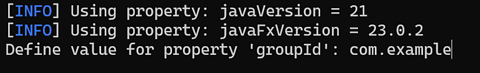
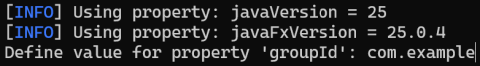
Update VSCode guide for Java 25 and Windows on Arm

diff --git a/learn/javafx/vscode/readme.md b/learn/javafx/vscode/readme.md
@@ -9,9 +9,9 @@ This document contains the following content:
 
 # Setting up the VSCode environment for JavaFX
 
-This guide will install the following software:
+In this guide, you will install the following software:
 
-- OpenJDK 21
+- OpenJDK 25
 - Maven 3
 - Visual Studio Code and the necessary extensions
 - Scene Builder
@@ -20,11 +20,16 @@ Installation methods differ depending on the operating system.
 
 ## Setting up VSCode for JavaFX on Windows
 
+You may be using Windows on Arm. 
+Although Java has an Arm version, the JavaFX libraries fetched via pom.xml do not support the Arm version of Java.
+Therefore, please install the x64 version of Java.
+In addition, some parts differ from Windows on x64, so please read the notes for each section.
+
 ### Step 1. Check your Java version
 
 First, check if Java is installed on your system.
 Search your Windows OS for the **Terminal** app.
-You can do this by clicking the Start menu and typing “Terminal” in the search bar.
+You can do this by clicking the Start menu and typing "Terminal" in the search bar.
 
 Open the "Terminal" (Windows PowerShell) and enter the following command:
 ```
@@ -34,72 +39,49 @@ java -version
 
 If an error is displayed, Java is not installed on your PC.
 Otherwise, the installed version of Java will be displayed.
-In the example in the photo above, openjdk version "21.0.6" is shown.
+In the example in the screenshot above, openjdk version "25.0.4" is shown.
 
-If the version is less than 21, please uninstall Java.
-The minor version numbers (the x.x part of 21.x.x) can be anything.
-If Java 21 or higher is already installed, no installation is necessary; proceed to **Step 4**.
+If the major version is less than 25, please uninstall Java.
+The minor version number (the x.x part of 25.x.x) can be anything.
+If Java 25 or higher is already installed, no installation is necessary; proceed to **Step 3**.
 
-### Step 2. Install Scoop
+### Step 2. Install OpenJDK
 
-If you are unfamiliar with setting up development environments, we recommend using **Scoop**. [Scoop](https://scoop.sh) is a package manager for Windows that automatically installs the necessary software for development and configures it for use.
+The first thing we need to install for Java development is OpenJDK. JDK stands for Java Development Kit.
 
-To install Scoop, copy the two lines below, paste them into Terminal (PowerShell), and press the Enter key to execute them.
+There are many distributions of OpenJDK. Any distribution will work, but this guide uses Eclipse Temurin.
 
-```
-Set-ExecutionPolicy -ExecutionPolicy RemoteSigned -Scope CurrentUser
-Invoke-RestMethod -Uri https://get.scoop.sh | Invoke-Expression
-```
+Please download Temurin from https://adoptium.net/temurin and install it.
 
-![Install Scoop](scoop.png)
+In the Custom Setup dialog during installation, make sure to select the "Set JAVA_HOME variable" option.
 
-### Step 3. Install Java (OpenJDK 21)
+Even if you are using Windows on Arm, please install the x64 version of Temurin.
 
-For those just starting to learn Java, OpenJDK is recommended as it is a free Java Development Kit (JDK).
-
-There are many distributions of OpenJDK. Any distribution will work, but this guide uses Microsoft's distribution.
-
-Installing Java involves running the following three commands in your Terminal.
-
-```
-scoop install git
-scoop bucket add java
-scoop install microsoft21-jdk
-```
-If you know that **git** is already installed on your PC, you can skip the first `scoop install git` command.
-
-Scoop automatically adds the **JAVA_HOME** value and the **Path** to the Java executables into the "User Environment Variables" of your Windows OS. If you don't use Scoop, you need to add them manually.
-
-### Step 4. Install Maven 3
+### Step 3. Install Maven 3
 
 Next, we will install **Maven**, a build tool for Java.
 
 A build tool manages the libraries needed for development projects and enables automatic building.
 In this guide, we will use Maven to set up an environment for developing and running JavaFX in your projects.
 
-If you have already installed Scoop in Step 2, installing Maven is straightforward.
-Please run the following two commands in your terminal.
-```
-scoop install maven
-[Environment]::SetEnvironmentVariable("MAVEN_HOME", "$env:USERPROFILE\scoop\apps\maven\current", "User")
-```
-You don't need to configure anything further.
+Please download a zip file from the [Maven official site](https://maven.apache.org), extract it somewhere on your PC, and add **MAVEN_HOME** to "User Environment Variables". These steps are straightforward for those familiar with development but may be a bit troublesome for beginners. Nowadays, you can simply ask an AI chatbot what Windows environment variables are and how to set them.
 
-If you don't use Scoop, you need to download a zip file from the [Maven official site](https://maven.apache.org), extract it somewhere on your PC, and add **MAVEN_HOME** to "User Environment Variables". This process is straightforward for those familiar with development but may be a bit troublesome for beginners.
-
-### Step 5. Install Visual Studio Code
+### Step 4. Install Visual Studio Code
 
 Download and install Visual Studio Code from the official page:
 
 https://code.visualstudio.com
 
-You can also install VS Code using Scoop; however, it is recommended to limit Scoop installations to command-line development tools (such as OpenJDK and Maven) that do not have graphical interfaces. GUI applications like VS Code include built-in automatic update features, which can conflict with Scoop's software update mechanism. For beginners, it is advisable to use standard installers instead of Scoop for applications with graphical interfaces.
+If you are using Windows on Arm, please install the x64 version of VS Code, not the Arm64 version.
+On Windows on Arm, you also need to open VS Code Settings and add the path to Eclipse Temurin as the value of `java.jdt.ls.java.home`. Below are examples of this setting.
+![VSCode settings](vscode_arm1.png)
+![VSCode settings](vscode_arm2.png)
 
-### Step 6. Install extensions
+### Step 5. Install extensions
 
 Open VSCode and install two extensions for developing Java and JavaFX.
 
-It is recommended not to install any JavaFX plugins that are not included in the packs below, as their functions may overlap.
+It is recommended not to install any extensions that are not included in the packs below, as their functions may overlap.
 
 #### Extension Pack for Java (Microsoft)
 
@@ -109,7 +91,7 @@ It is recommended not to install any JavaFX plugins that are not included in the
 
 ![JavaFX Essentials Pack](extension_javafx.png)
 
-### Step 7. Install Scene Builder
+### Step 6. Install Scene Builder
 
 This is a graphical UI editor.
 
@@ -134,9 +116,9 @@ java -version
 If an error is displayed, Java is not installed on your PC.
 Otherwise, the installed version of Java will be displayed.
 
-If the version is less than 21, please uninstall Java.
-The minor version numbers (the x.x part of 21.x.x) can be anything.
-If Java 21 or higher is already installed, no installation is necessary; proceed to **Step 4**.
+If the major version is less than 25, please uninstall Java.
+The minor version number (the x.x part of 25.x.x) can be anything.
+If Java 25 or higher is already installed, no installation is necessary; proceed to **Step 4**.
 
 ### Step 2. Install SDKMAN!
 
@@ -148,18 +130,18 @@ To install SDKMAN!, copy the line below, paste it into the terminal, and press t
 curl -s "https://get.sdkman.io" | bash
 ```
 
-After that, close the terminal and open a new one to enable SDKMAN!
+After that, close the terminal and open a new one to enable SDKMAN!.
 
-### Step 3. Install Java (OpenJDK 21)
+### Step 3. Install OpenJDK
 
-For those who are just starting to learn Java, OpenJDK is recommended as it is a free Java Development Kit (JDK).
+The first thing we need to install for Java development is OpenJDK. JDK stands for Java Development Kit.
 
-There are many distributions of OpenJDK. Any distribution will work, but this guide uses the official OpenJDK distribution.
+There are many distributions of OpenJDK. Any distribution will work, but this guide uses Eclipse Temurin.
 
 To install Java, type the following command in your terminal:
 
 ```bash
-sdk install java 21.0.2-open
+sdk install java 25.0.4-tem
 ```
 
 ### Step 4. Install Maven 3
@@ -194,7 +176,7 @@ https://code.visualstudio.com
 
 Open VSCode and install two extensions for developing Java and JavaFX.
 
-It is recommended not to install any JavaFX plugins that are not included in the packs below, as their functions may overlap.
+It is recommended not to install any JavaFX extensions that are not included in the packs below, as their functions may overlap.
 
 #### Extension Pack for Java (Microsoft)
 
@@ -221,12 +203,6 @@ Download and install Scene Builder from the official page:
 https://gluonhq.com/products/scene-builder/#download
 
 That's all for the installation.
-
-## About versions
-
-This guide assumes Java 21 and JavaFX 23. This is a relatively new environment as of spring 2025. 
-
-Java 25 and JavaFX 25 will be released in fall 2025. You can continue to use Java 21 and JavaFX 23 even after fall. If you choose to use Java 25 and JavaFX 25, you will need slightly different procedures from those outlined in this document.
 
 # Create your first JavaFX project
 
@@ -258,11 +234,11 @@ Press the Enter key to select the latest version.
 
 ## 4. About your project
 
-The following are the details of your project. 
+Next, you will enter the details of your project. 
 
 ### 4.1 groupId
 
-groupId is the reverse domain name notation for your organization. For a simple practice app, you can use `com.example` as groupId.
+The groupId is your organization's domain name in reverse order (reverse domain name notation). For a simple practice app, you can use `com.example` as groupId.
 
 ![groupId](archetype04.png)
 
@@ -276,7 +252,7 @@ Allowed characters include:
 - numbers
 - hyphens (-)
 
-![articactId](archetype05.png)
+![artifactId](archetype05.png)
 
 ### 4.3 version and package
 
@@ -290,7 +266,7 @@ Press the Enter key.
 
 ![Confirmation](archetype07.png)
 
-## 5 Project created
+## 5. Project created
 
 A folder with the same name as the artifactId will be created. 
 
@@ -321,9 +297,9 @@ This is a graphical UI editor.
 
 Select `Launcher.java` and click Run or Debug to launch your app.
 
-As a result, a blank window appears.
+A blank window will appear.
 
-## 8. Build executable
+## 8. Build an executable
 
 To create an executable (.exe, .dmg), open a terminal in VSCode and run the following command:
 
@@ -344,7 +320,7 @@ If you want to explore an architecture similar to MVC, the javafx-sss-fxml-mvc a
 
 This is just the starting point. 
 
-If you use libraries for development, you need to search in Maven Central (https://central.sonatype.com) and add the dependency to your pom.xml.
+If you use libraries for development, you need to search on Maven Central (https://central.sonatype.com) and add the dependencies to your pom.xml.
 
 If you want to customize the build, you will need to learn more about Maven.
 
